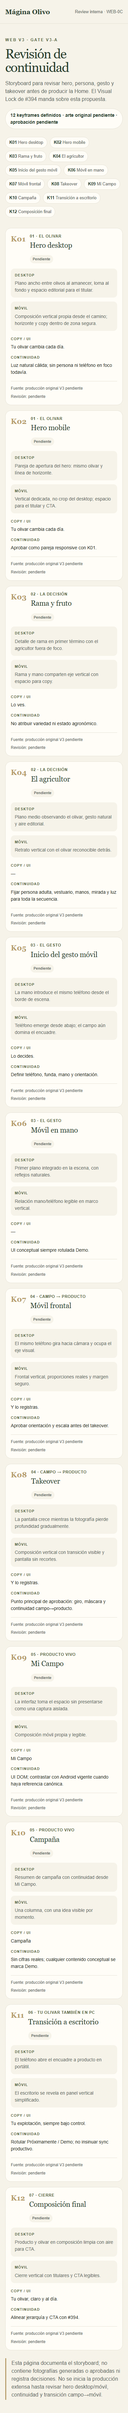
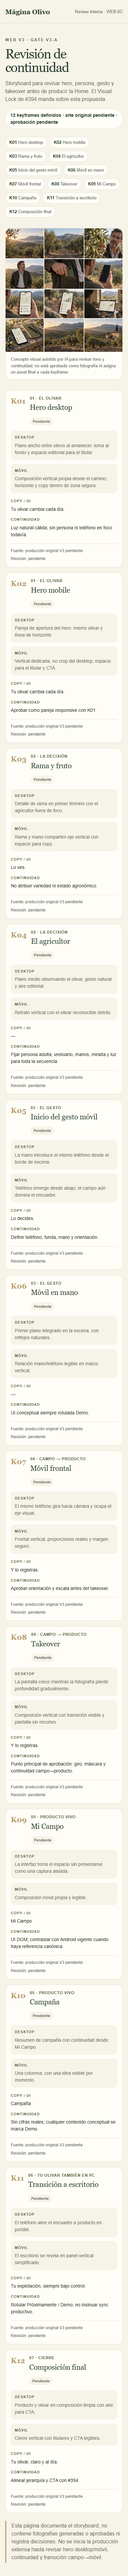
feat(web): add V3 storyboard concept sheet

diff --git a/web/src/app/v3-review/page.tsx b/web/src/app/v3-review/page.tsx
@@ -1,4 +1,5 @@
 import type { Metadata } from "next";
+import Image from "next/image";
 import Link from "next/link";
 
 export const metadata: Metadata = {
@@ -130,6 +131,11 @@ const keyframes = [
   },
 ];
 
+const storyboardImage =
+  process.env.GITHUB_PAGES === "true"
+    ? "/magina-olivo-v20/v3-review/storyboard-concept.webp"
+    : "/v3-review/storyboard-concept.webp";
+
 export default function V3ReviewPage() {
   return (
     <>
@@ -157,6 +163,21 @@ export default function V3ReviewPage() {
             </a>
           ))}
         </nav>
+        <figure className="v3-review-contact-sheet">
+          <Image
+            src={storyboardImage}
+            alt="Lámina conceptual generada para revisar continuidad entre olivar, agricultor, móvil, producto y escritorio"
+            width={1222}
+            height={1287}
+            sizes="(max-width: 800px) 100vw, 88rem"
+            loading="eager"
+          />
+          <figcaption>
+            Concepto visual asistido por IA para revisar tono y continuidad; no
+            está aprobado como fotografía ni asigna un asset final a cada
+            keyframe.
+          </figcaption>
+        </figure>
         <div className="v3-review-grid">
           {keyframes.map((frame) => (
             <article className="v3-frame" id={frame.id} key={frame.id}>

diff --git a/web/tests/web-smoke.spec.ts b/web/tests/web-smoke.spec.ts
@@ -103,6 +103,17 @@ test("V3 review exposes all keyframes as pending and stays noindex", async ({
     /noindex/,
   );
   await expect(page.locator(".v3-frame")).toHaveCount(12);
+  const conceptImage = page.getByAltText(
+    "Lámina conceptual generada para revisar continuidad entre olivar, agricultor, móvil, producto y escritorio",
+  );
+  await expect(conceptImage).toBeVisible();
+  await expect
+    .poll(() =>
+      conceptImage.evaluate(
+        (image) => (image as HTMLImageElement).naturalWidth,
+      ),
+    )
+    .toBeGreaterThan(0);
   await expect(
     page.getByText("aprobación pendiente", { exact: false }),
   ).toBeVisible();

diff --git a/web/src/app/globals.css b/web/src/app/globals.css
@@ -220,6 +220,27 @@ a {
   font-weight: 400;
 }
 
+.v3-review-contact-sheet {
+  margin: 0 0 2rem;
+  overflow: hidden;
+  border: 1px solid var(--color-border);
+  border-radius: 1.1rem;
+  background: var(--color-paper);
+}
+
+.v3-review-contact-sheet img {
+  display: block;
+  width: 100%;
+  height: auto;
+}
+
+.v3-review-contact-sheet figcaption {
+  border-top: 1px solid var(--color-border);
+  padding: 0.75rem 1rem;
+  color: var(--color-muted);
+  font-size: 0.8rem;
+}
+
 .v3-review-grid {
   display: grid;
   grid-template-columns: repeat(2, minmax(0, 1fr));

diff --git a/web/docs/WEB-V3-STORYBOARD.md b/web/docs/WEB-V3-STORYBOARD.md
@@ -2,6 +2,8 @@
 
 Estado: **12 keyframes definidos; assets y aprobación pendientes**. La página de revisión está en `/v3-review`. Este storyboard describe encuadre y continuidad; no afirma que las imágenes estén producidas.
 
+La página muestra una lámina conceptual global de continuidad asistida por IA. Sirve para discutir tono y secuencia; no está aprobada como fotografía final ni como asignación exacta a cada ID K01–K12.
+
 | ID | Acto | Encuadre desktop | Composición móvil | Copy / UI | Continuidad y decisión pendiente |
 |---|---|---|---|---|---|
 | K01 | El olivar | Hero ancho, líneas de olivos y loma al amanecer; espacio editorial para el titular | Vertical desde el camino entre olivos, profundidad al fondo; titular en zona de contraste | «Tu olivar cambia cada día.» | Aprobar luz, paisaje y lectura del hero; persona/móvil aún fuera de foco |

diff --git a/web/docs/WEB-V3-ASSET-PLAN.md b/web/docs/WEB-V3-ASSET-PLAN.md
@@ -2,6 +2,8 @@
 
 Estado: **sin assets visuales aprobados**. No se reutilizarán por defecto imágenes, vídeo, teléfono ni composición de V1/V2. Las referencias visuales de esta fase son briefs textuales y estados de review, no imágenes finales.
 
+La review incluye `public/v3-review/storyboard-concept.webp`, una lámina conceptual generada con IA para discutir tono y continuidad global. Está etiquetada como concepto y no se aprueba como fotografía, UI final ni correspondencia frame por frame.
+
 ## Paquetes de entrega
 
 | Paquete | Keyframes | Formatos previstos | Brief |
